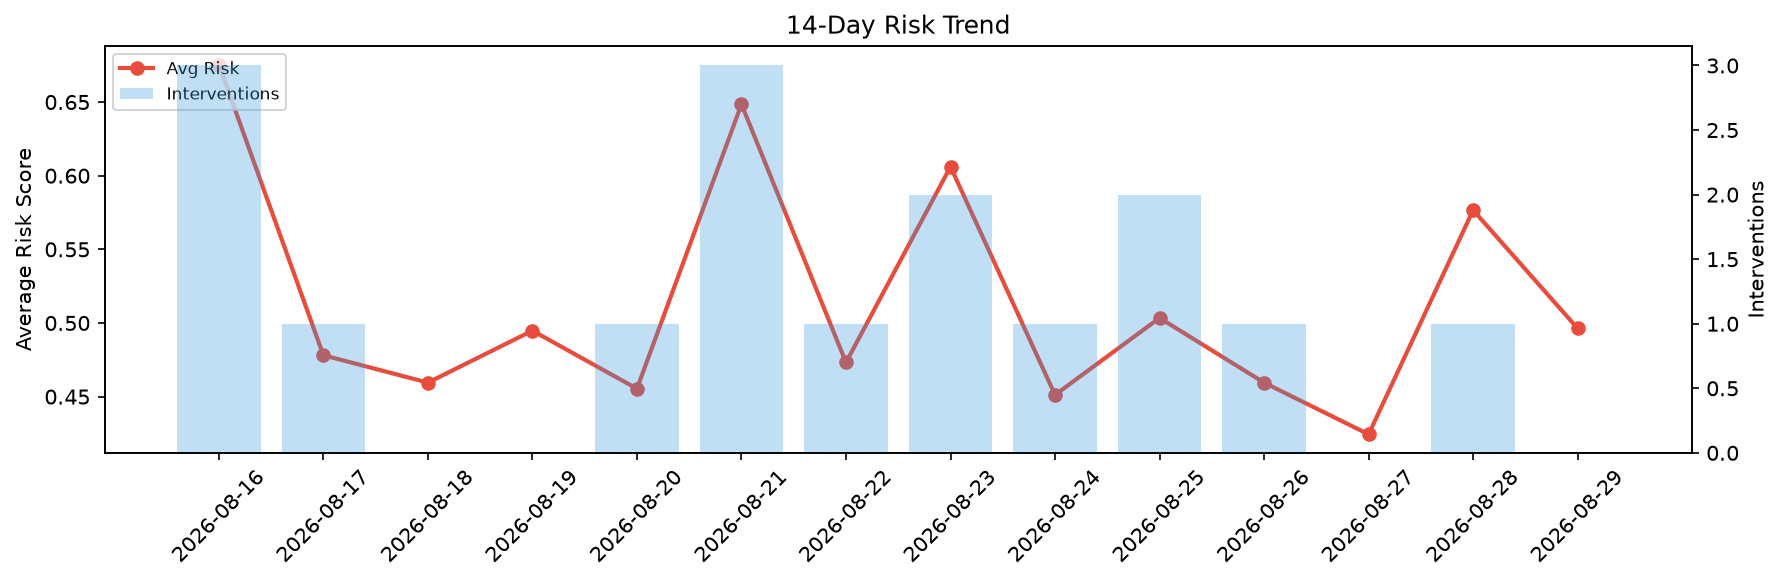
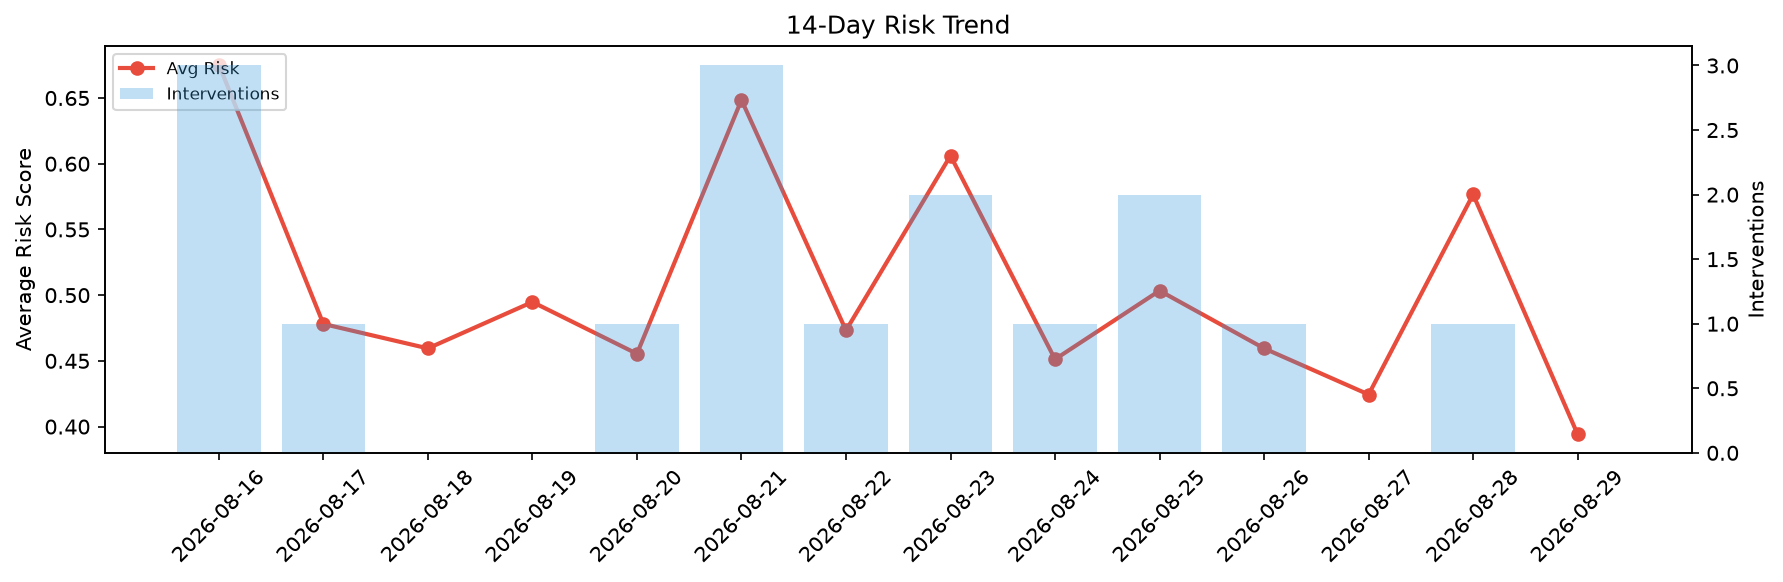
agent-improvement: daily cycle 2026-08-29T17:43

diff --git a/logs/2026-08-29.md b/logs/2026-08-29.md
@@ -1,6 +1,6 @@
 # Agent Improvement Report — 2026-08-29
 
-**Cycle ID:** `0f2bdabe` | **Avg Risk:** 0.4963 | **Interventions:** 0/4
+**Cycle ID:** `1743245f` | **Avg Risk:** 0.3941 | **Interventions:** 0/4
 
 ![Dashboard](2026-08-29_dashboard.png)
 
@@ -10,18 +10,18 @@
 
 | Domain | Risk Score | Decision | Alerts |
 |--------|-----------|----------|--------|
-| code_review | 0.5299 | monitor | none |
-| incident_response | 0.2936 | monitor | none |
-| data_pipeline | 0.5896 | monitor | freshness, schema_drift |
-| deployment | 0.5722 | monitor | none |
+| code_review | 0.152 | monitor | none |
+| incident_response | 0.5425 | monitor | blast_radius |
+| data_pipeline | 0.3905 | monitor | freshness |
+| deployment | 0.4915 | monitor | latency_p99 |
 
 ## Delta vs Yesterday
 
 | Domain | Today | Yesterday | Change |
 |--------|-------|-----------|--------|
-| code_review | 0.5299 | 0.516 | 📈 2.7% |
-| incident_response | 0.2936 | 0.7513 | 📉 -60.9% |
-| data_pipeline | 0.5896 | 0.5301 | 📈 11.2% |
-| deployment | 0.5722 | 0.5088 | 📈 12.5% |
+| code_review | 0.152 | 0.516 | 📉 -70.5% |
+| incident_response | 0.5425 | 0.7513 | 📉 -27.8% |
+| data_pipeline | 0.3905 | 0.5301 | 📉 -26.3% |
+| deployment | 0.4915 | 0.5088 | 📉 -3.4% |
 
 **Refinement:** `{'adjustment': 'tighten_thresholds', 'trend': 'degrading', 'window': 4}`
